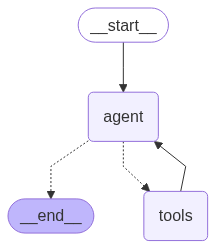
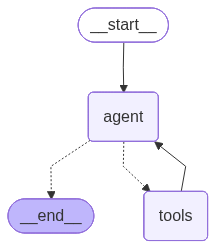
Update my_graph.png

diff --git a/README.md b/README.md
@@ -26,6 +26,10 @@ This agent can help you plan your trip, suggest itineraries, and manage your tra
 
 **Run FastAPI backend:**
 uvicorn main:app --reload --port 8000
+or
+python -m uvicorn main:app --reload --port 8000
 
 **Run Streamlit frontend:**
 streamlit run streamlit_app.py
+or
+python -m streamlit run streamlit_app.py
